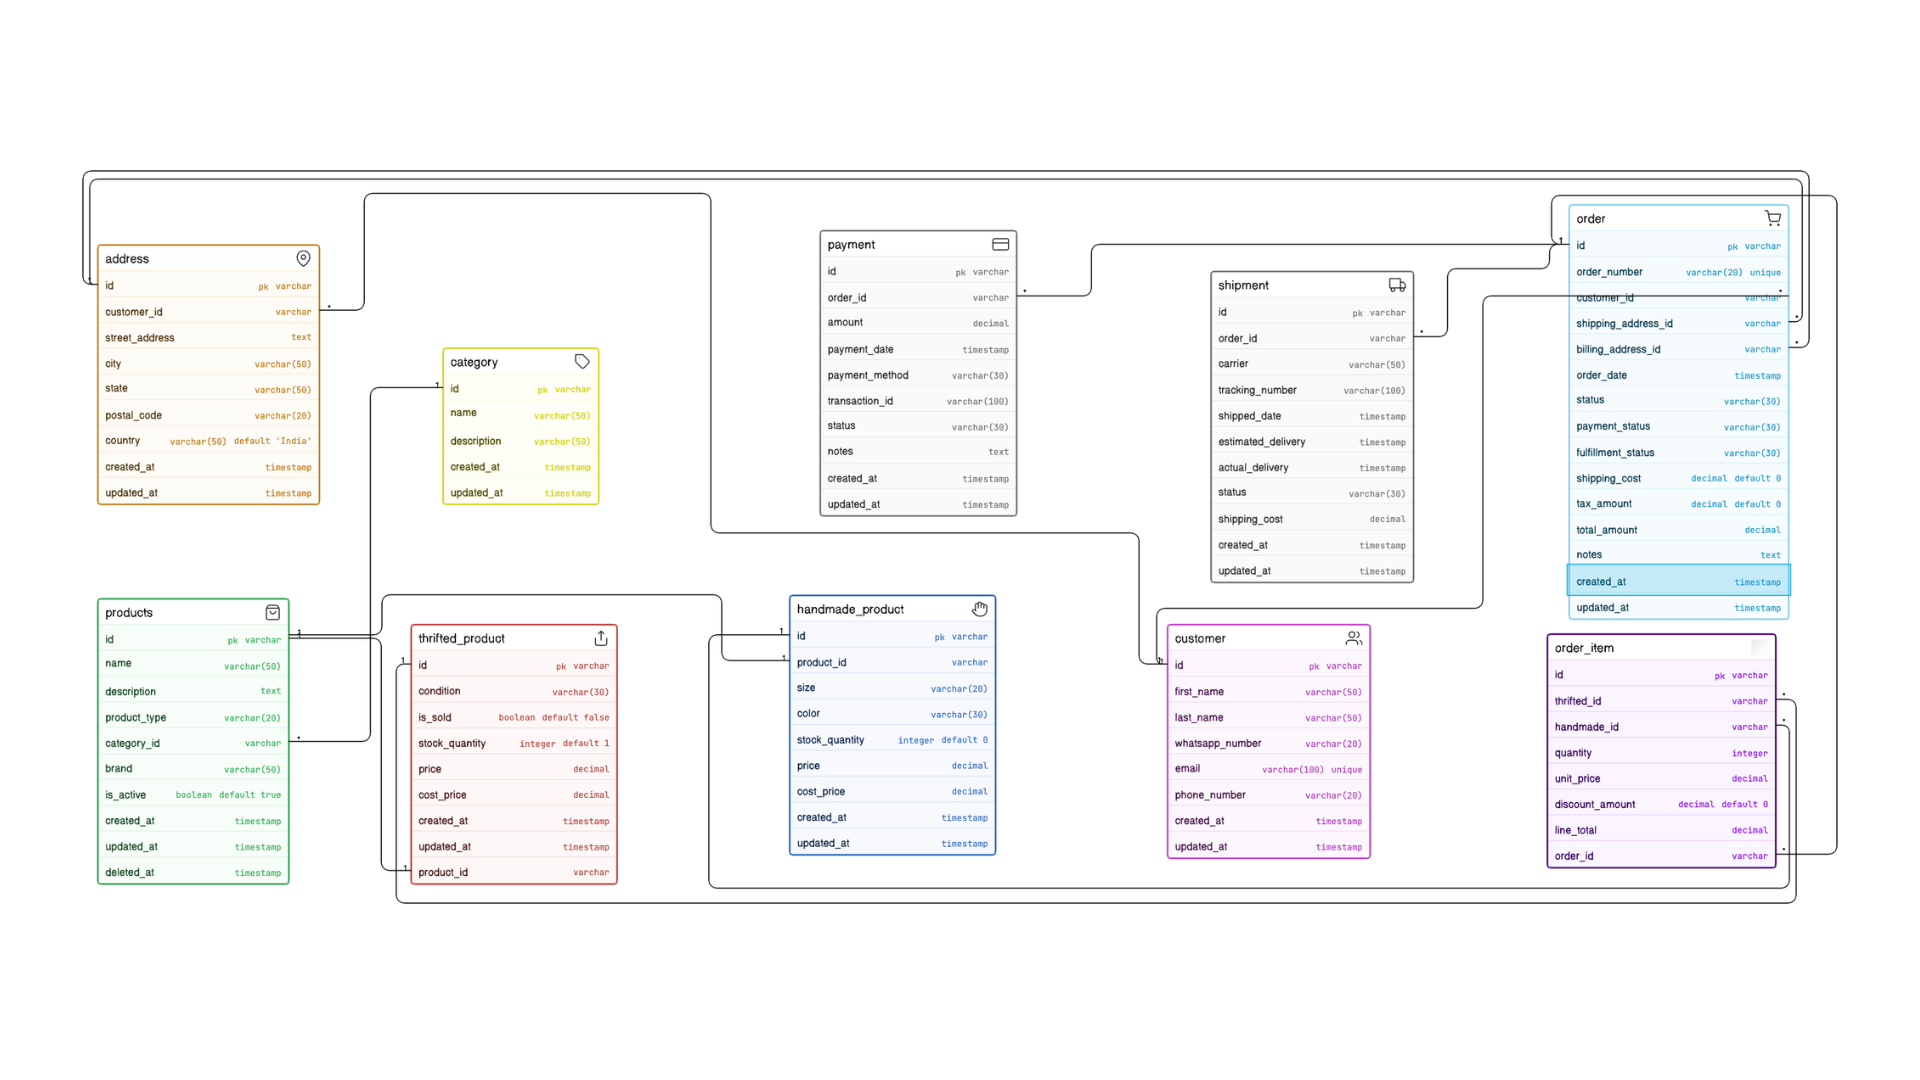
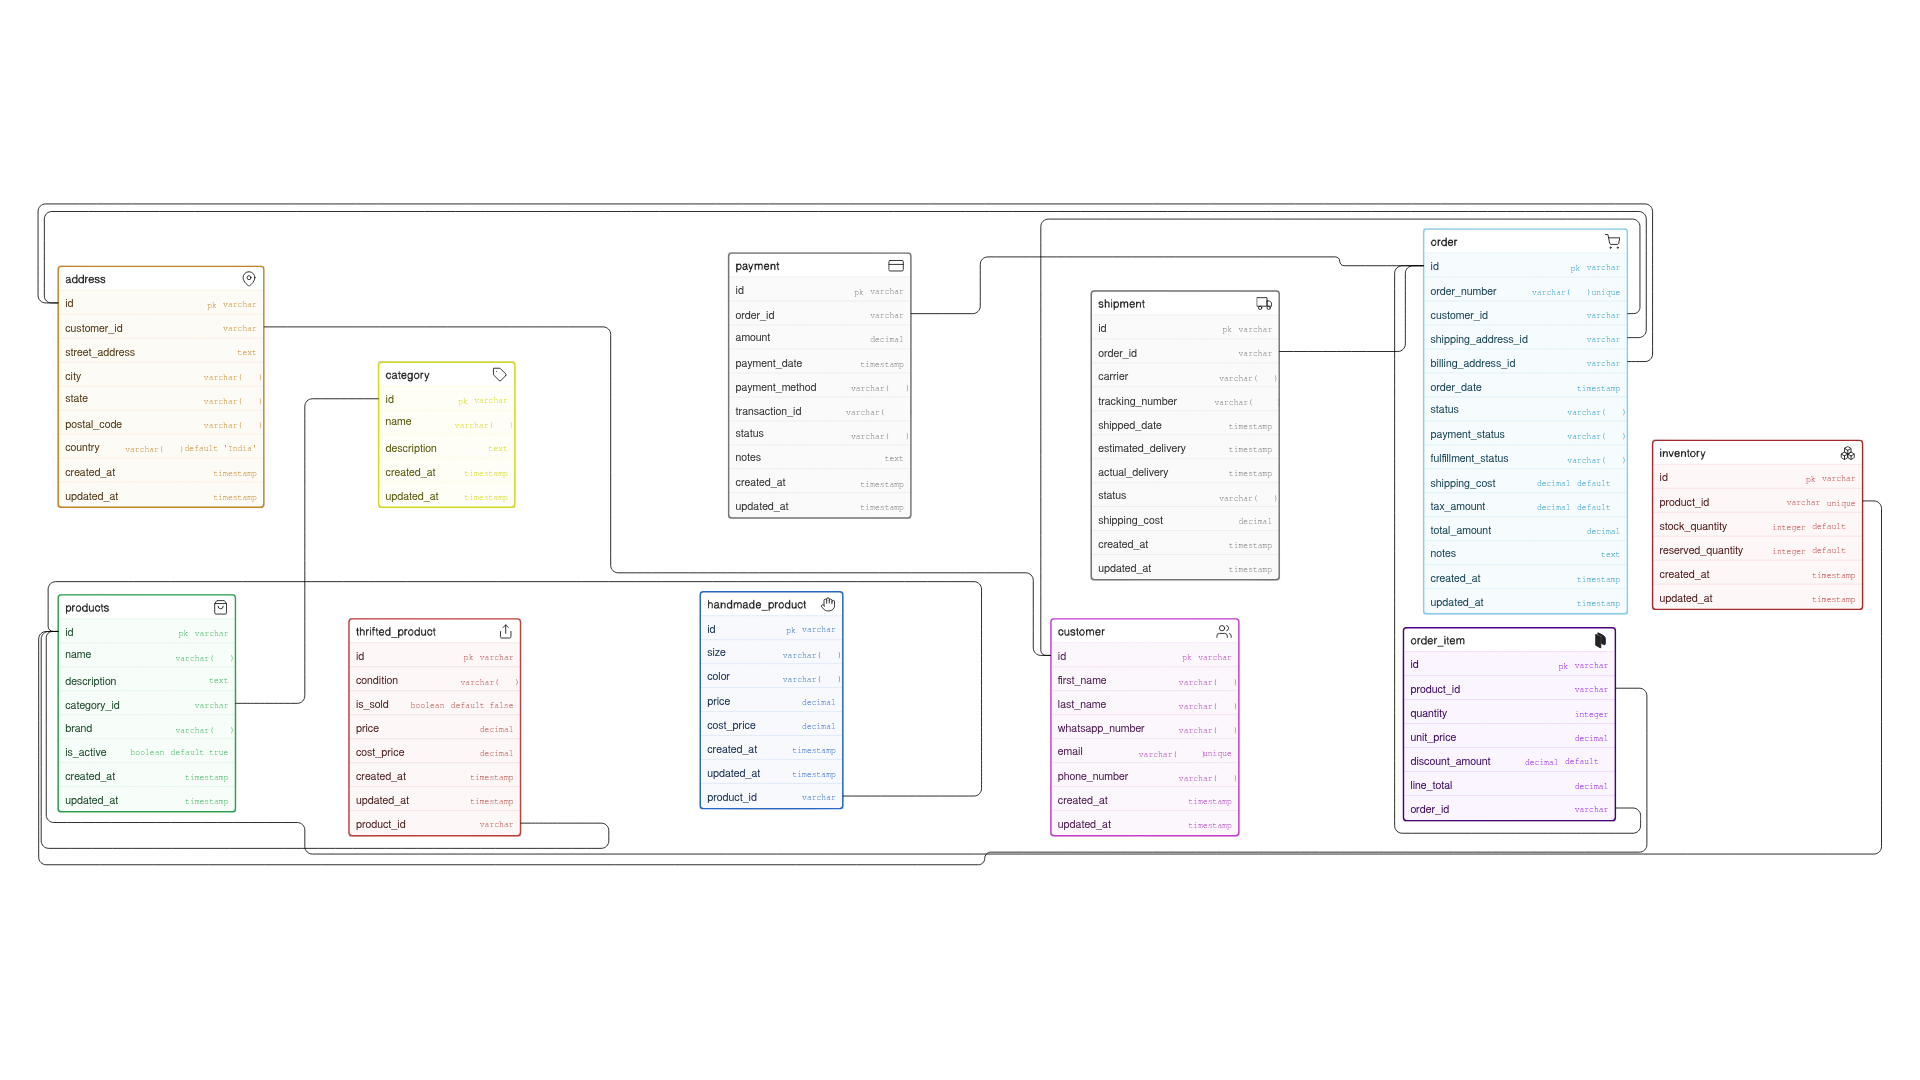
add readme and update erd

diff --git a/Instagram_Thrift_Creator_Store/Readme.md b/Instagram_Thrift_Creator_Store/Readme.md
@@ -1,0 +1,40 @@
+# Instagram Thrift Creator Store - ER Diagram
+
+## Overview
+This project presents an Entity Relationship Diagram (ERD) for a small Instagram-based business that sells both thrifted and handmade products. The schema is designed to support product management, inventory tracking, customer orders, payments, and shipment handling in a normalized and practical structure.
+
+## Business Scope Covered
+- Product catalog management for thrifted and handmade items
+- Category-based product organization
+- Customer profiles and multiple addresses
+- Order lifecycle with item-level details
+- Payment tracking with transaction details
+- Shipment tracking and fulfillment status
+- Inventory support for reusable stock and reserved units
+
+## Core Entities
+- products
+- thrifted_product
+- handmade_product
+- inventory
+- customer
+- address
+- category
+- order
+- order_item
+- payment
+- shipment
+
+## Key Relationship Highlights
+- One customer can place many orders
+- One order can contain many order items
+- Products are linked to category and inventory
+- Product specialization is handled through thrifted_product and handmade_product
+- Orders are connected to payment and shipment records
+
+## Diagram Link
+ER Diagram: https://github.com/TheSoumenMondal/db_designs/blob/main/Instagram_Thrift_Creator_Store/er_diagram.png
+
+## Notes
+This ERD is intended for database design evaluation and focuses on clarity, normalization, and real-world thrift-store operations.
+
